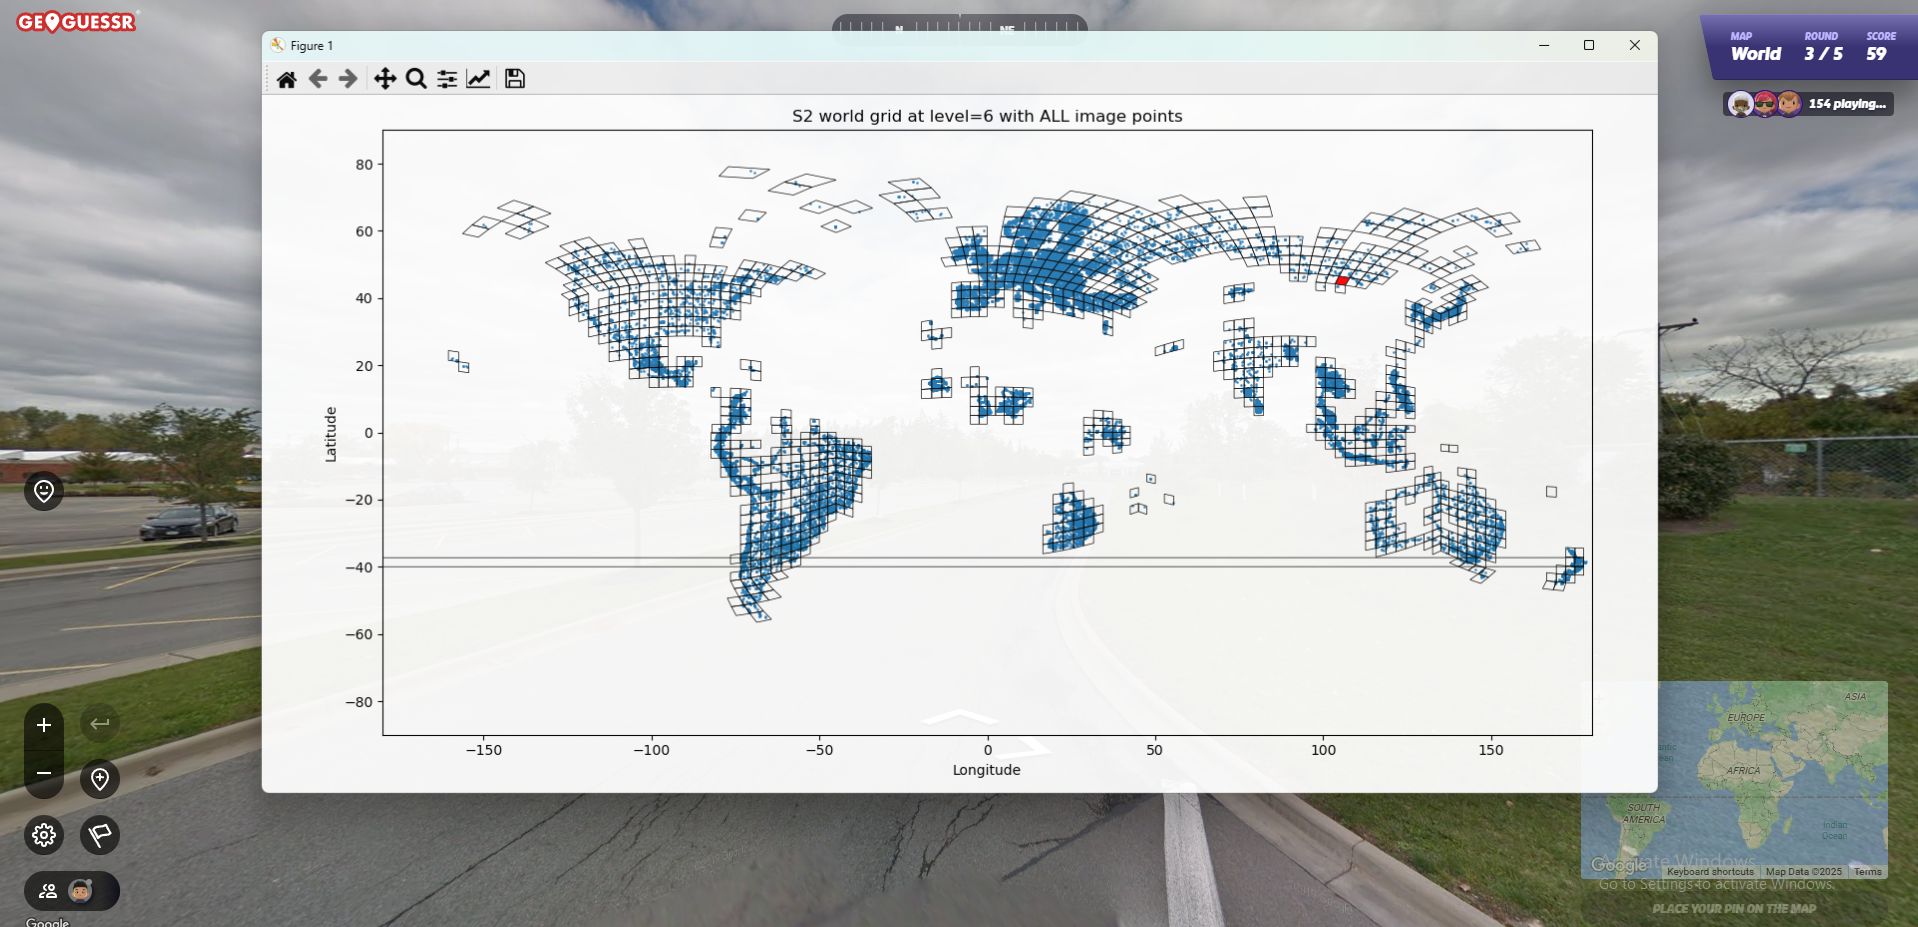
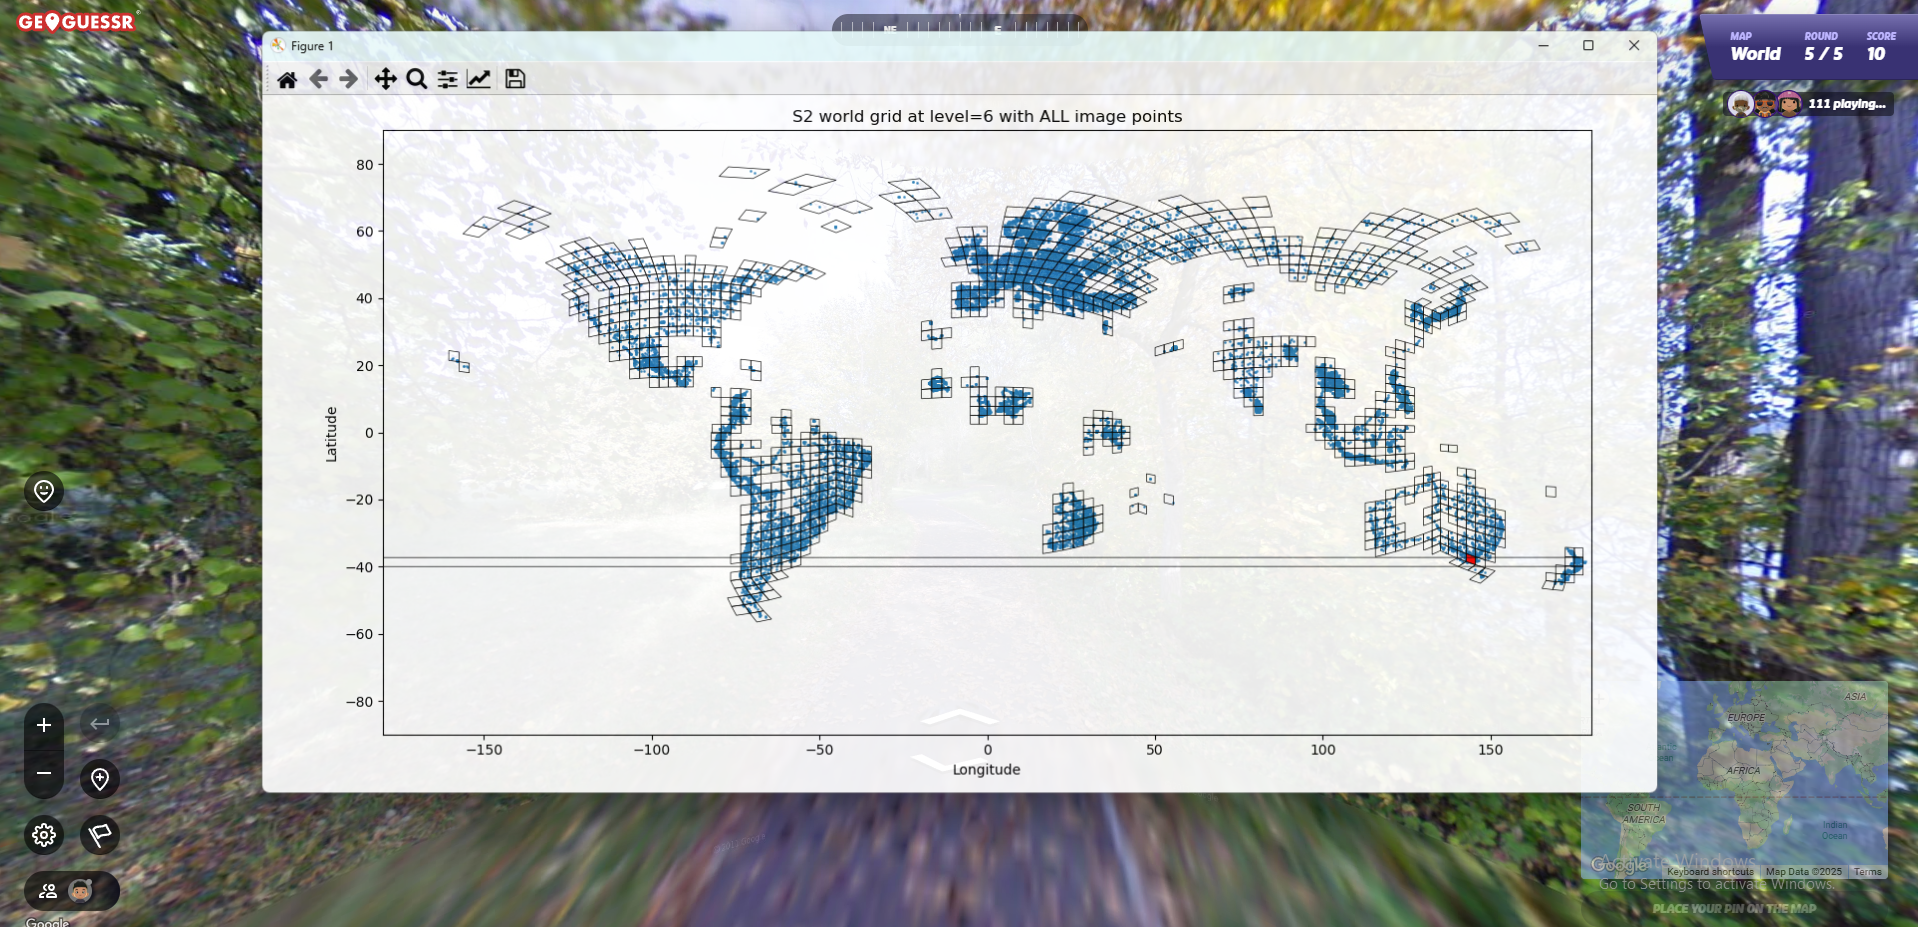
sadasd

diff --git a/main.py b/main.py
@@ -1,27 +1,20 @@
 
 from matplotlib.colors import Normalize
-import pandas as pd
-import numpy as np
 
-
-from s2sphere import CellId, LatLng, Cell, Angle
+from s2sphere import CellId, LatLng
 import torch.nn as nn
 import torch
-from torchvision import models
+from geopy.geocoders import Nominatim
 
-from random import randint, random
 
-from torch.utils.data import Dataset, DataLoader
+from torch.utils.data import DataLoader
 from torchvision.transforms import Normalize, ToTensor, Compose, Resize
 from sklearn.model_selection import train_test_split
-from time import perf_counter
 
 
 from geoGuesserDataLoader import GeoGuesserDataset
-from map_plot import MapPlotter
 from df_prep import load_data
-from timer import run_with_timer
-from geo_network import GeoNetworkBaseline, Head, training_loop, model_ResNet50
+from geo_network import training_loop, model_ResNet50
 
 
 CITIES_PATH = "./cities"
@@ -44,7 +37,7 @@ class GeoGuesserHelper:
         self.streetview_path = STREETVIEW_PATH
         self.cities_path = CITIES_PATH
         self.mapped_path = MAPPED_PATH
-        self.save_path = "./geo_network_test.pth"
+        self.save_path = "./geo_network_23.pth"
         self.df = load_data(self.streetview_path, self.cities_path, self.mapped_path, recompute=recompute, vm=vm)
 
         self.df_img_and_labels = None
@@ -92,21 +85,9 @@ class GeoGuesserHelper:
 
         return preds
 
-    def geo_loss(self, pred_logits, true_idx, cell_to_latlon=None):
-        loss_fn = nn.CrossEntropyLoss()
-        # pred_probs = torch.softmax(pred_logits, dim=1)
-        
-        # pred_coords = torch.sum(pred_probs.unsqueeze(2) * cell_latlons, dim=1)
-        # dist = haversine_distance(pred_coords, true_coords)
-
-        # loss = loss_fn(pred_logits, true_idx) + 0.001*torch.mean(dist)
-        loss = loss_fn(pred_logits, true_idx)
-        return loss
-
 
     def train_model(self, model, train, val, save_path):
         """Train the GeoNetwork model."""
-        print(self.df_img_and_labels['cell_label'].value_counts())
         # Initialize model, optimizer, and loss function
         optimizer = torch.optim.Adam([
         {'params': model.fc.parameters(), 'lr': LEARNING_RATE},
@@ -135,9 +116,9 @@ def main():
 
     helper.train_model(model, geo_dataloader_train, geo_dataloader_val, helper.save_path)
 
-    # model.eval()
-    # plotter = MapPlotter(helper.df)
-    # model()
+
+
+
 
 
 

diff --git a/geo_network.py b/geo_network.py
@@ -4,6 +4,7 @@ from torchvision import models
 
 
 
+
 class GeoNetworkBaseline(nn.Module):
     def __init__(self, img_size: int):
         super().__init__()
@@ -40,15 +41,15 @@ class Head(nn.Module):
     def __init__(self, in_features, out_features):
         super().__init__()
         self.net = nn.Sequential(
-            nn.Linear(in_features, 512),
+            nn.Linear(in_features, 1024),
+            nn.BatchNorm1d(1024),
+            nn.ReLU(),
+            nn.Dropout(0.4),
+            nn.Linear(1024, 512),
             nn.BatchNorm1d(512),
             nn.ReLU(),
             nn.Dropout(0.4),
-            nn.Linear(512, 256),
-            nn.BatchNorm1d(256),
-            nn.ReLU(),
-            nn.Dropout(0.4),
-            nn.Linear(256, out_features)
+            nn.Linear(512, out_features)
         )
 
     def forward(self, x):
@@ -135,6 +136,7 @@ def train_epoch(
     return model, train_loss_batches, train_acc_batches
 
 
+
 def validate(model, loss_fn, val_loader, device):
     val_loss_cum = 0
     val_acc_cum = 0
@@ -151,3 +153,5 @@ def validate(model, loss_fn, val_loader, device):
             val_acc_cum += acc_batch_avg
 
     return val_loss_cum / len(val_loader), val_acc_cum / len(val_loader)
+
+

diff --git a/df_prep.py b/df_prep.py
@@ -46,6 +46,7 @@ def load_data(streetview_path, cities_path, mapped_path, recompute: bool, vm: bo
 
 
     #### Läs in data från data_mapped och flytta de till streetview_jpg ####
+    countries_counter = {}
     mapped_dict = {"lat": [], "lon": [], "path": []}
     for i in range(len(json_files)):
         assert json_files[i].stem == img_files[i].stem, f"Filerna {json_files[i]} och {img_files[i]} matchar inte!"
@@ -56,6 +57,8 @@ def load_data(streetview_path, cities_path, mapped_path, recompute: bool, vm: bo
         mapped_dict["lat"].append(data['coordinates'][0])
         mapped_dict["lon"].append(data['coordinates'][1])
         mapped_dict["path"].append(str(f"{MAPPED_PATH}/{img_files[i].stem}.png"))
+        country = data.get('country', 'Unknown')
+        countries_counter[country] = countries_counter.get(country, 0) + 1
 
     df_mapped = pd.DataFrame(mapped_dict)
     # df_mapped_sampled = df_mapped.sample(10000, random_state=1)
